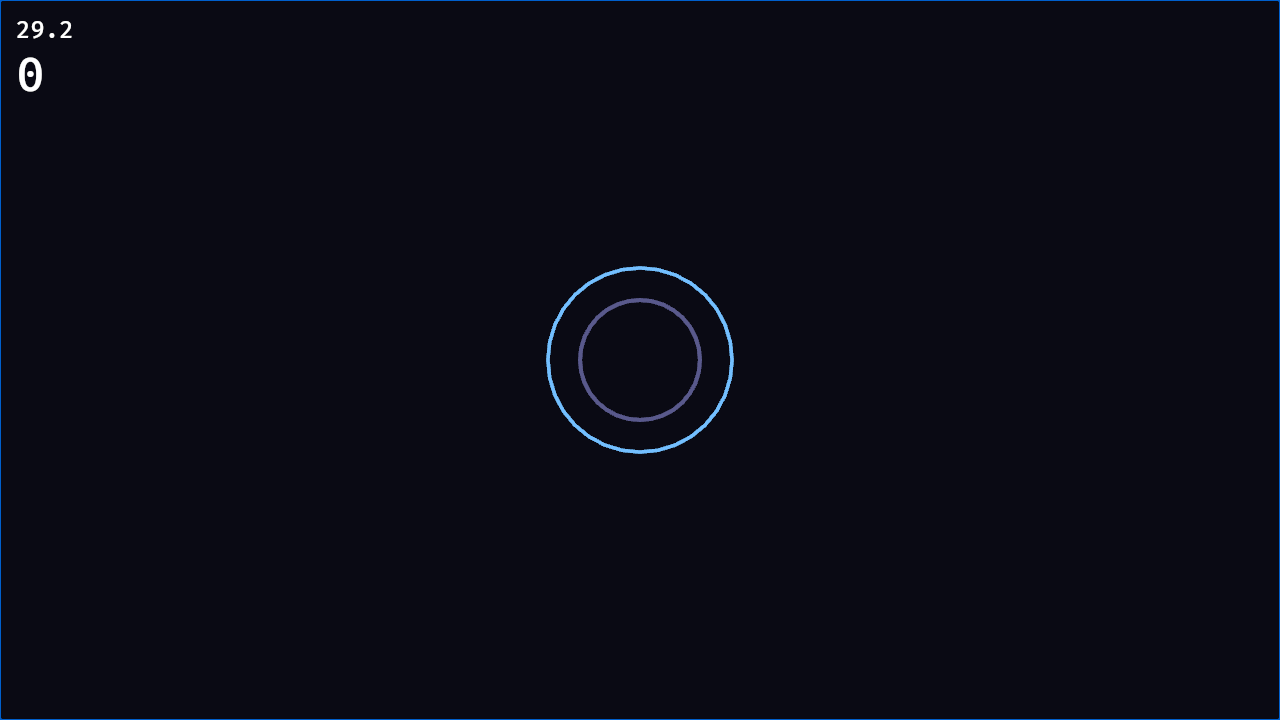
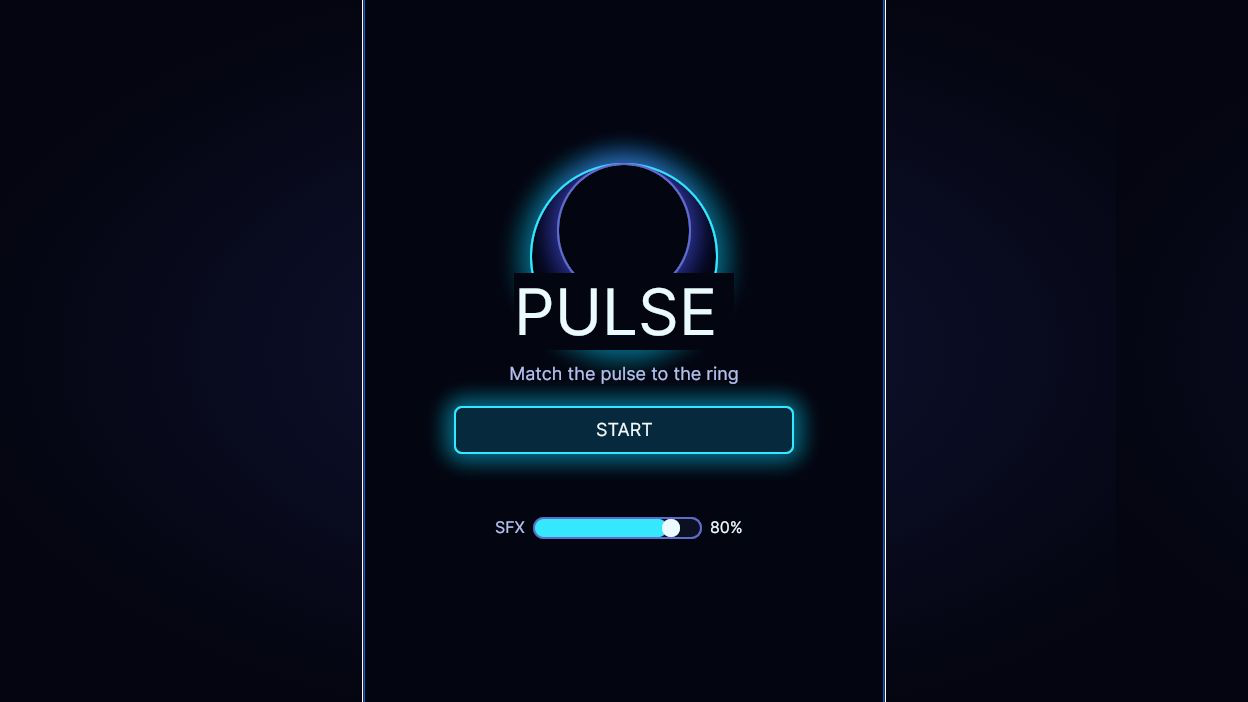
Refresh UINya and Pulse portfolio screenshots

diff --git a/public/assets/image/portfolio/web/README.md b/public/assets/image/portfolio/web/README.md
@@ -1,0 +1,8 @@
+# Web作品の掲載画像
+
+どちらも Cz_mirror の作品の公開画面を2026年11月5日に撮影しました。制作実績での掲載は作品制作者の依頼に基づきます。画像単体の商用利用・改変・再配布・クレジット表記の条件は未確認です。
+
+| ファイル | 出典 | 撮影範囲と加工 |
+| --- | --- | --- |
+| `uinya.png` | [UINya](https://czmirror.github.io/UInya/) | 「はちみつ猫耳ダイアログ」の編集画面を16:9（1104 × 621 px）で撮影し、PNGに変換 |
+| `pulse.png` | [Pulse](https://czmirror.github.io/Pulse/) | タイトル画面を16:9（1248 × 702 px）で撮影し、PNGに変換 |
